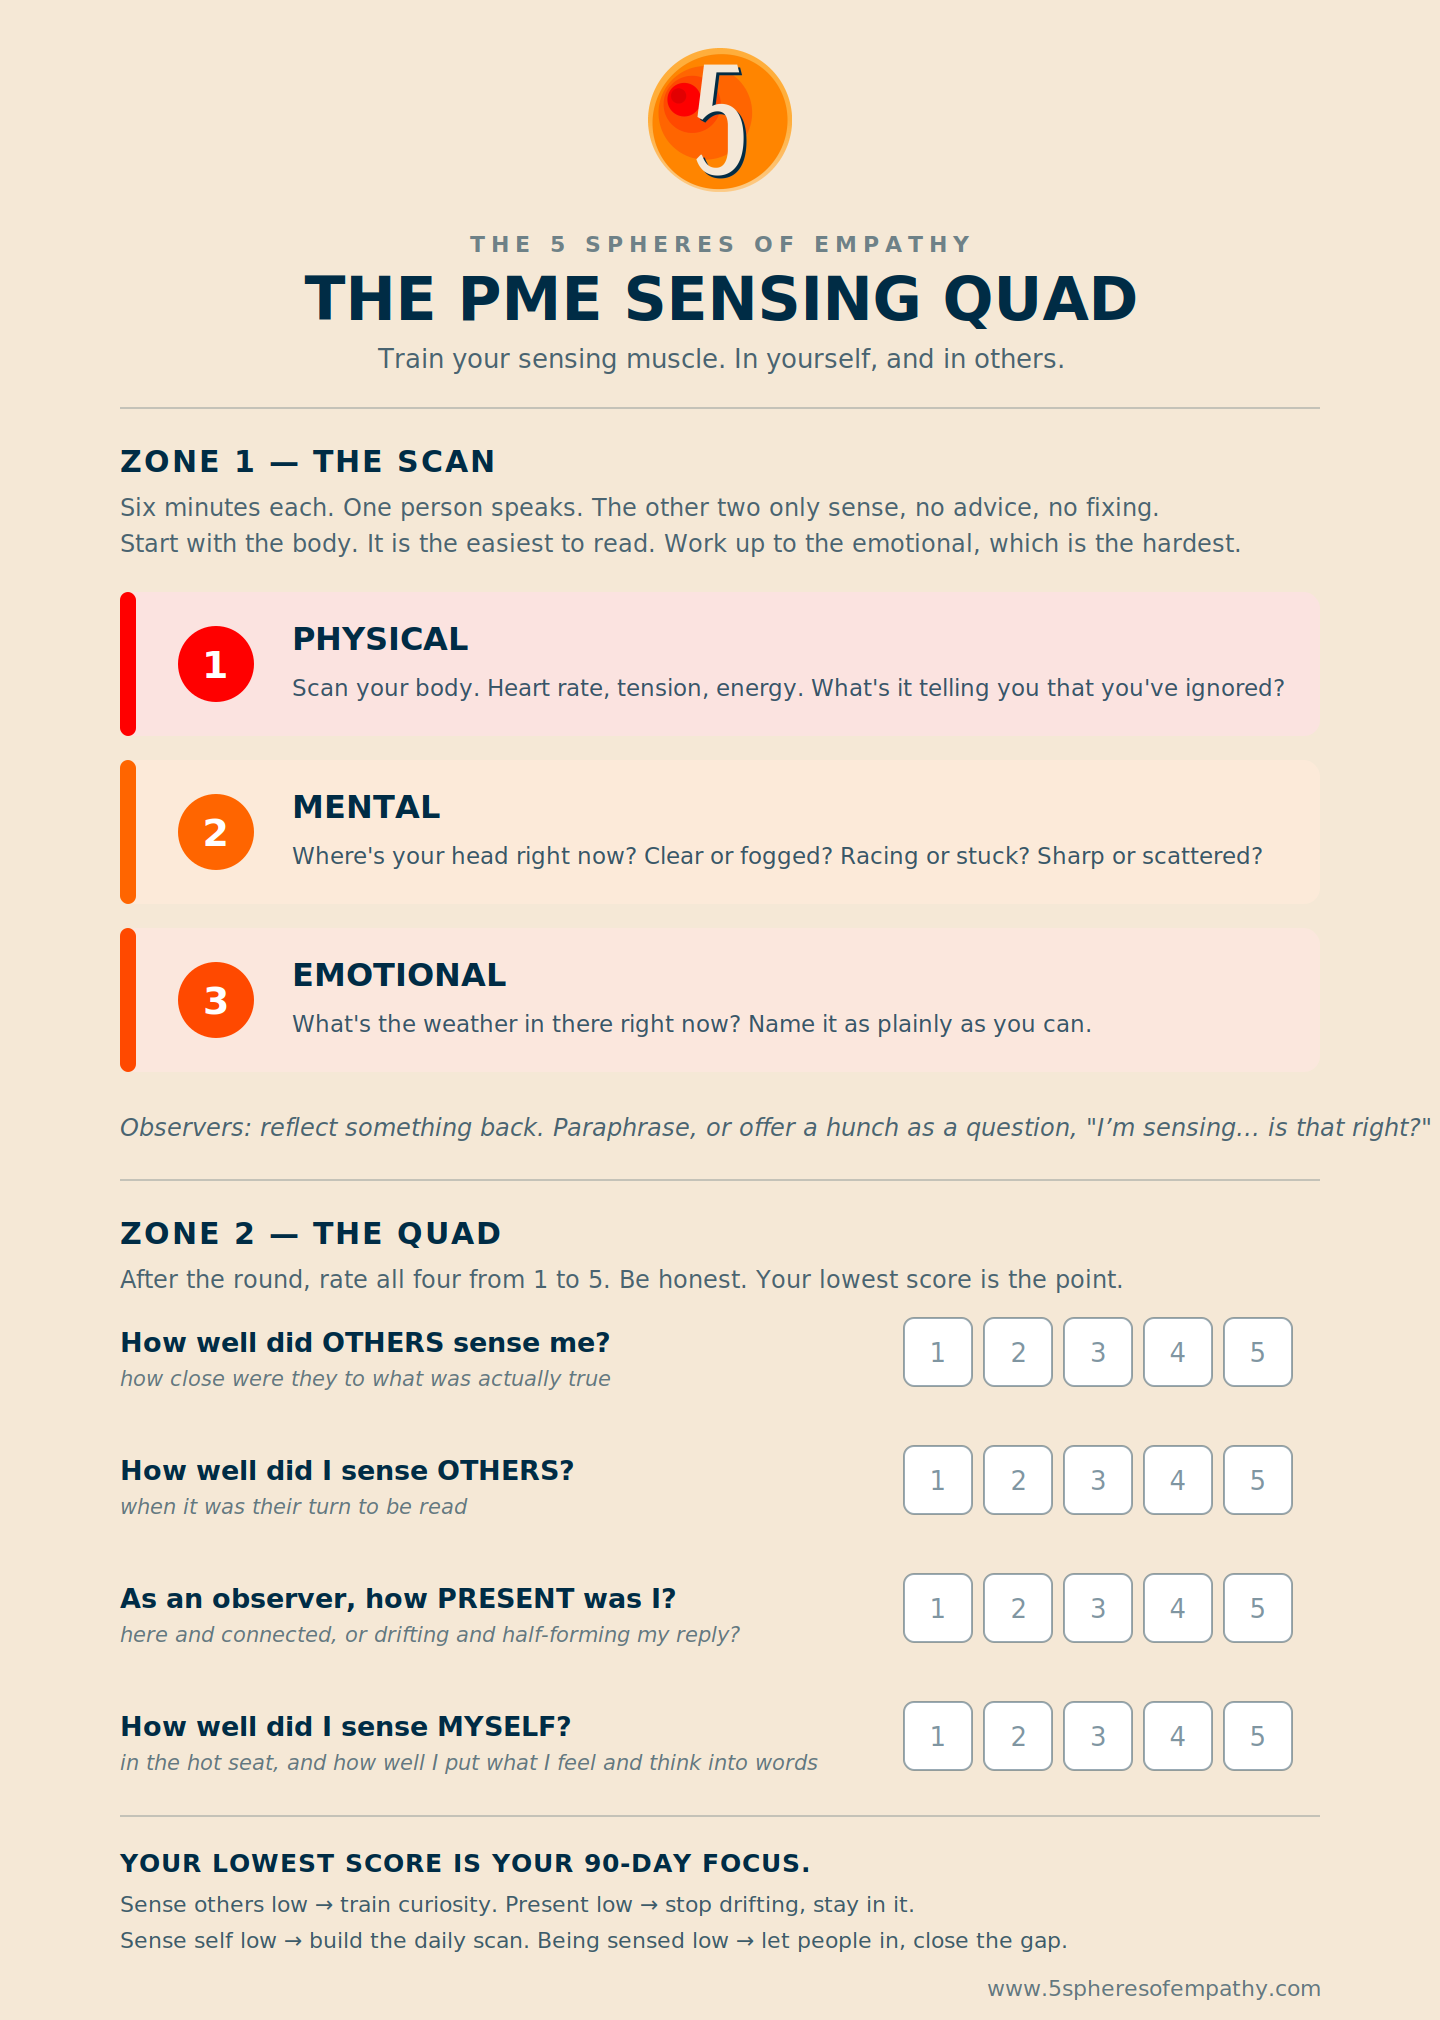
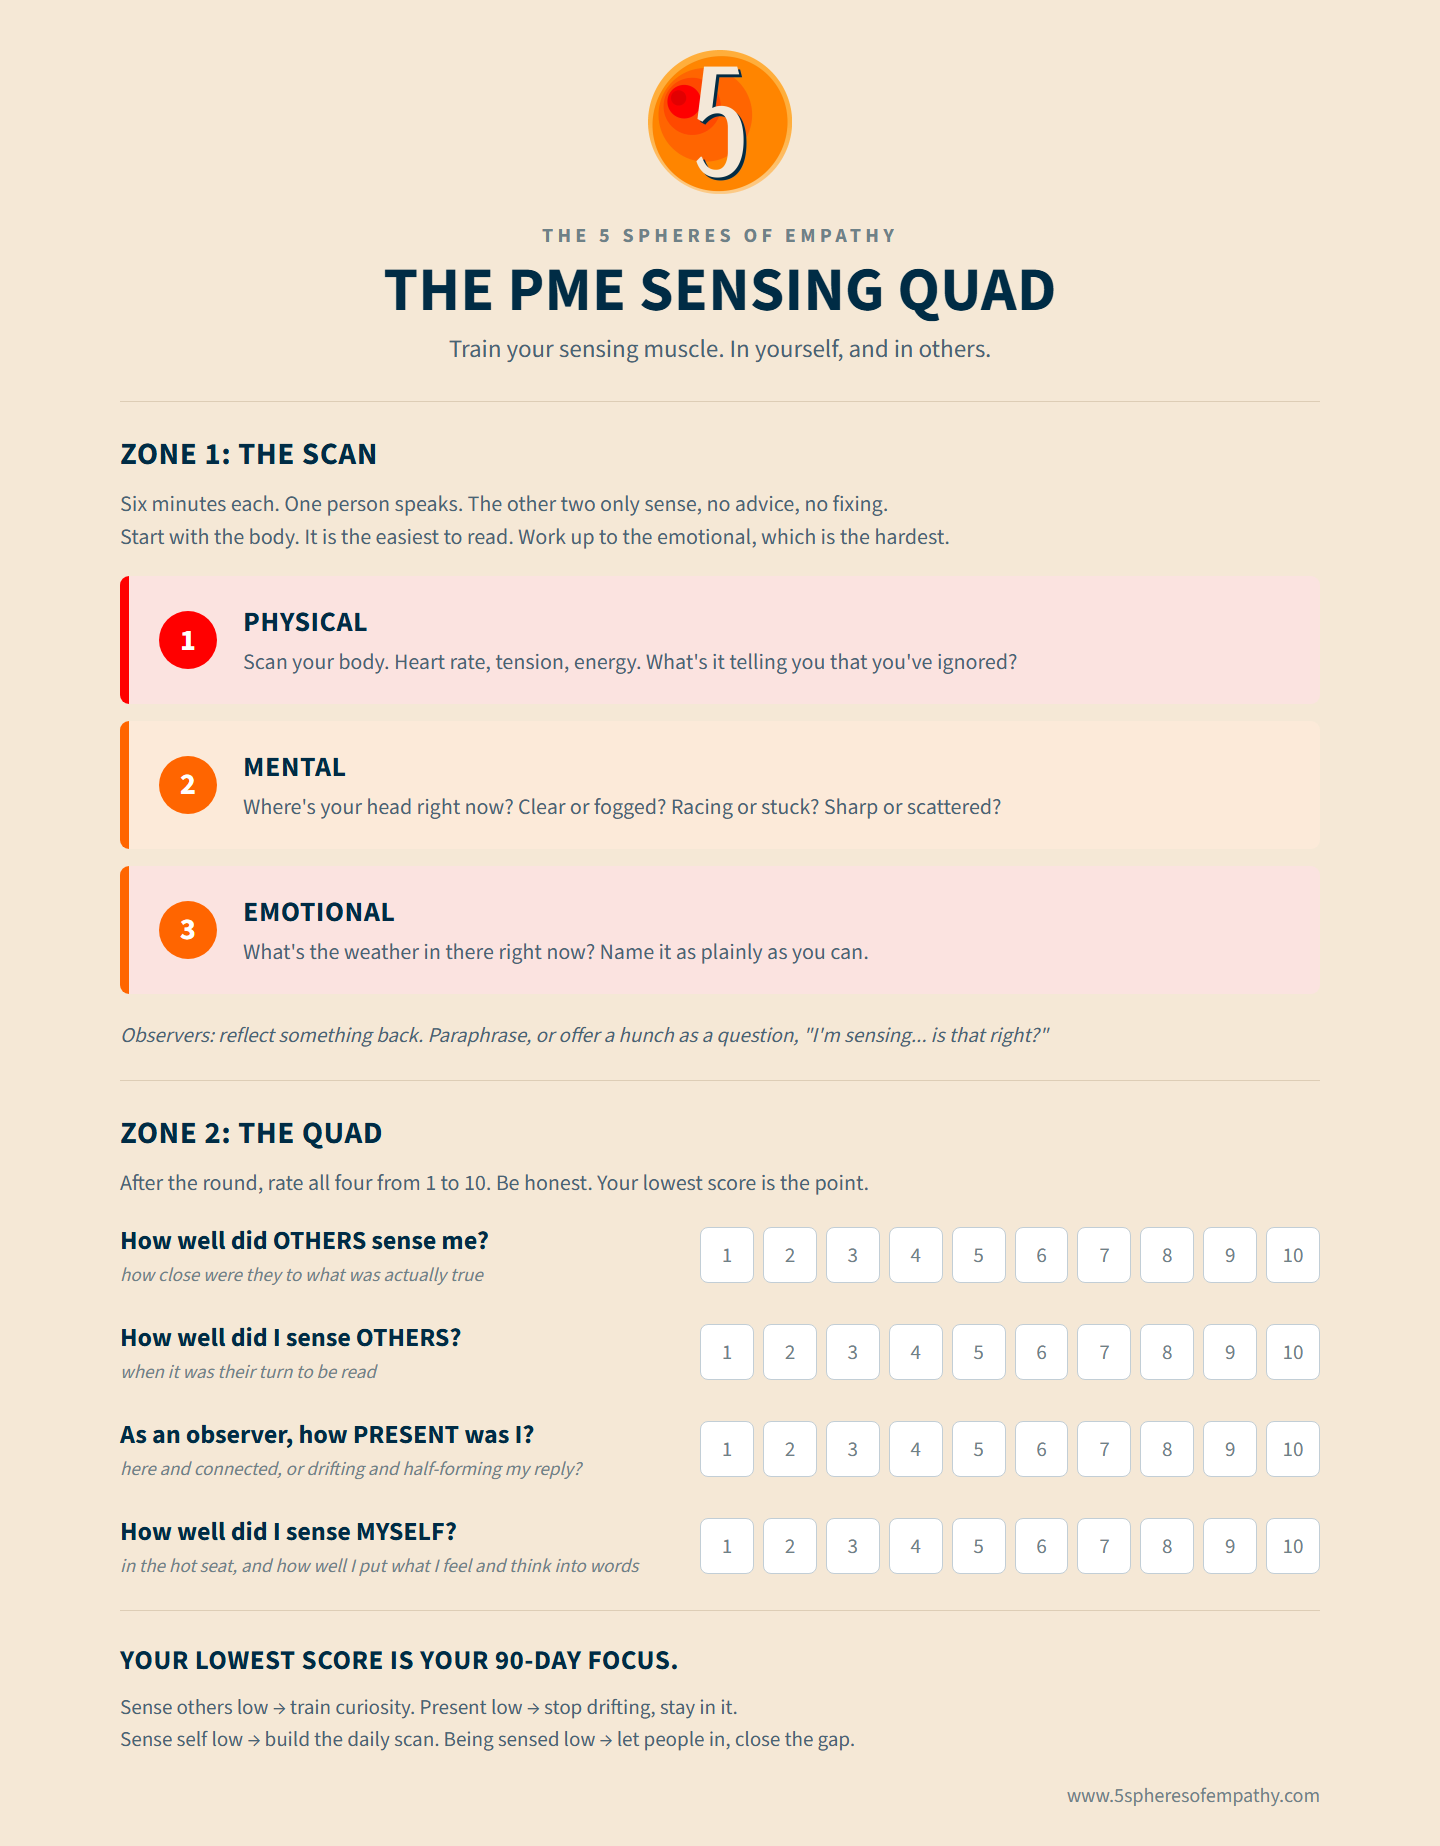
Ship the ten-point scale, with the module its six readers import
The scale change was written on 4 October and never committed, so the live
participant form still served 1 to 5 while the functions had been rewritten
against 1 to 10. `netlify/functions/_scale.mjs` was untracked and is imported
by drill-score, quad, drill-results, drill-my-sheet, quad-results and
quad-my-results, so committing the modified files without it would have shipped
six functions importing a module that does not exist.

The silent failure was the dangerous one. SCALE is [1..10], so a 1-to-5 form
posts values the server accepts without error and the record is stamped
scale: 10 with a span of 9. A participant ticking the top box the form offered
would have read 44%. ASC session one is 7 October and session two 22 October,
scored as a before and after against each other.

Staged by pathspec rather than by directory, so nothing else in the tree is
swept in. watch/, video/, skills-lock.json and the 6 October livestream cover
are deliberately left untracked, pending a separate decision.

diff --git a/quad/index.html b/quad/index.html
@@ -62,9 +62,12 @@
             font-size: 1.05rem; line-height: 1.25; margin-bottom: 3px; }
   .dim .hint { font-size: .92rem; color: #5f636f; margin-bottom: 12px; }
 
-  .scale { display: flex; gap: 8px; }
+  /* Ten across is 29px a button on a 360px phone. Two rows of five instead,
+     which also keeps the halves of the scale readable as halves. */
+  .scale { display: grid; grid-template-columns: repeat(5, 1fr); gap: 8px; }
+  @media (min-width: 560px) { .scale { grid-template-columns: repeat(10, 1fr); } }
   .scale button {
-    flex: 1; font-family: 'Fraunces', serif; font-weight: 700; font-size: 1.1rem;
+    font-family: 'Fraunces', serif; font-weight: 700; font-size: 1.1rem;
     color: var(--ink); background: var(--paper); border: 1.5px solid var(--line);
     border-radius: 12px; padding: 14px 0; cursor: pointer;
     transition: background .15s ease, border-color .15s ease, color .15s ease,
@@ -160,6 +163,7 @@
   .hp { position: absolute; left: -9999px; }
 
   @media (max-width: 560px) {
+    .scale { gap: 6px; }
     .scale button { font-size: 1rem; padding: 12px 0; }
     .quad-wrap { padding: 0 16px 60px; }
   }
@@ -489,6 +493,9 @@
   function save() { try { localStorage.setItem(KEY, JSON.stringify(state)); } catch (e) {} }
 
   var $ = function (id) { return document.getElementById(id); };
+  /* One to ten from 4 October 2026. Five points had one usable threshold,
+     its own midpoint, so a band could sit nowhere else. */
+  var SCALE_MAX = 10;
   var STAGES = ['s-start', 's-a', 's-hold', 's-again', 's-b', 's-result', 's-done'];
   function show(id) {
     STAGES.forEach(function (s) { $(s).hidden = (s !== id); });
@@ -504,8 +511,8 @@
     var scale = document.createElement('div');
     scale.className = 'scale';
     scale.setAttribute('role', 'radiogroup');
-    scale.setAttribute('aria-label', d.q + ' — 1 to 5');
-    for (var n = 1; n <= 5; n++) {
+    scale.setAttribute('aria-label', d.q + ', 1 to ' + SCALE_MAX);
+    for (var n = 1; n <= SCALE_MAX; n++) {
       (function (n) {
         var b = document.createElement('button');
         b.type = 'button';
@@ -527,8 +534,8 @@
     var ends = document.createElement('div');
     ends.className = 'scale-ends';
     ends.innerHTML = '<span></span><span></span>';
-    ends.children[0].textContent = '1 — ' + lo;
-    ends.children[1].textContent = '5 — ' + hi;
+    ends.children[0].textContent = '1 is ' + lo;
+    ends.children[1].textContent = SCALE_MAX + ' is ' + hi;
     wrap.appendChild(q); wrap.appendChild(h); wrap.appendChild(scale); wrap.appendChild(ends);
     var prev = state[round][d.key];
     if (prev) { scale.children[prev - 1].setAttribute('aria-checked', 'true'); }
@@ -932,7 +939,8 @@
     var h = '<p>You and ' + (d.n - 1) + ' other' + (d.n === 2 ? '' : 's') +
             ' filled this in.</p>';
 
-    h += '<table class="mine-table"><tr><th>Round two</th><th class="n">You</th>' +
+    var outOf = d.scale ? ', out of ' + d.scale : '';
+    h += '<table class="mine-table"><tr><th>Round two' + outOf + '</th><th class="n">You</th>' +
          '<th class="n">The room</th></tr>';
     d.dimensions.forEach(function (x) {
       h += mineRow(x.dimension, x.you.to, x.room.to);
@@ -948,7 +956,8 @@
 
     if (d.state) {
       h += '<table class="mine-table" style="margin-top:14px">' +
-           '<tr><th>How you felt</th><th class="n">Start</th><th class="n">End</th></tr>';
+           '<tr><th>How you felt' + outOf + '</th><th class="n">Start</th>' +
+           '<th class="n">End</th></tr>';
       d.state.forEach(function (x) { h += mineRow(x.layer, x.start, x.end); });
       h += '</table>';
     }

diff --git a/renders/participant/index.html b/renders/participant/index.html
@@ -56,6 +56,10 @@
   .fig{flex:1 1 92px;background:var(--paper);border:1px solid var(--line);
        border-radius:9px;padding:9px 11px}
   .fig .n{font-family:var(--serif);font-size:1.5rem;line-height:1;font-variant-numeric:tabular-nums}
+  /* The unit, carried on the number itself. A 3.4 of 5 and a 3.4 of 10 are different
+     readings and this page holds both kinds of score. */
+  .fig .n small{font-family:var(--sans,inherit);font-size:.52em;font-weight:600;
+    letter-spacing:.02em;color:var(--muted);margin-left:.28em}
   .fig .l{font-size:.69rem;letter-spacing:.07em;text-transform:uppercase;color:var(--muted);
           font-weight:700;margin-top:5px}
   .fig.hero{background:var(--warm);border-color:var(--ember)}
@@ -108,8 +112,8 @@
         <div class="top"><b>Public Speaking Drill</b><span>7 October</span></div>
         <div class="in">
           <div class="pair">
-            <div class="fig hero"><div class="n">71</div><div class="l">Appeared</div></div>
-            <div class="fig"><div class="n">44</div><div class="l">Relay</div></div>
+            <div class="fig hero"><div class="n">71<small>%</small></div><div class="l">Appeared</div></div>
+            <div class="fig"><div class="n">44<small>%</small></div><div class="l">Relay</div></div>
             <div class="fig"><div class="n">+6</div><div class="l">Gap</div></div>
           </div>
           <p>Ten people scored your ninety seconds. You put yourself at 77 before you spoke
@@ -133,7 +137,7 @@
         <div class="top"><b>The Sensing Drill</b><span>17 September</span></div>
         <div class="in">
           <div class="pair">
-            <div class="fig hero"><div class="n">3.4</div><div class="l">Round two</div></div>
+            <div class="fig hero"><div class="n">3.4<small>of 5</small></div><div class="l">Round two</div></div>
             <div class="fig"><div class="n">+0.4</div><div class="l">Change</div></div>
             <div class="fig"><div class="n">5</div><div class="l">In the room</div></div>
           </div>
@@ -152,11 +156,10 @@
       distance between your own read and the room's. It has closed each time.</p>
     <table>
       <tr><th>Date</th><th>What</th><th class="n">You said</th><th class="n">They said</th><th class="n">Apart</th></tr>
-      <tr><td>17 Sep</td><td>Sensing</td><td class="n">4.0</td><td class="n">3.4</td><td class="n down">0.6</td></tr>
-      <tr><td>7 Oct</td><td>Speaking</td><td class="n">77</td><td class="n">71</td><td class="n up">6</td></tr>
+      <tr><td>17 Sep</td><td>Sensing</td><td class="n">4.0 of 5</td><td class="n">3.4 of 5</td><td class="n down">0.6</td></tr>
+      <tr><td>7 Oct</td><td>Speaking</td><td class="n">77%</td><td class="n">71%</td><td class="n up">6</td></tr>
     </table>
-    <p class="foot" style="margin-top:12px">The two sit on different scales, so the columns
-      are not comparable to each other. Each row compares you to the room on the day.</p>
+    <p class="foot" style="margin-top:12px">The Sensing Quad is answered 1 to 5 and the speaking drill is a percentage, so the columns are not comparable to each other. Each row compares you to the room on the day.</p>
   </div>
 
   <p class="foot">Each of these is a reading from a single occasion, taken by the people

diff --git a/skilldrills/public-speaking/index.html b/skilldrills/public-speaking/index.html
@@ -36,8 +36,11 @@
   .qtext{display:block;color:var(--muted);font-size:.84rem;margin-top:1px}
   /* One label per option. A label holding several controls activates only its
      first, so a single label round the row makes a tap on "5" select 1. */
-  .scale{display:flex;gap:6px}
-  .scale label{flex:1;margin:0}
+  /* Ten in a row is under 30px a box on a phone. Two rows of five, going to
+     one row where there is width for it. */
+  .scale{display:grid;grid-template-columns:repeat(5,1fr);gap:6px}
+  @media (min-width:560px){ .scale{grid-template-columns:repeat(10,1fr)} }
+  .scale label{margin:0}
   .scale input{position:absolute;opacity:0;width:0;height:0}
   .scale label span{display:block;text-align:center;border:1px solid var(--line);border-radius:6px;
        padding:12px 0;font-size:.95rem;cursor:pointer;background:var(--paper);user-select:none}
@@ -296,6 +299,12 @@
   var polling = null;
 
   /* ---------------------------------------------------------- building ---- */
+  /* One to ten from 4 October 2026, matching the Quad. A participant who meets
+     two scales inside one programme is worse off than either scale. */
+  var SCALE_MAX = 10;
+  var SCALE = [];
+  for (var _i = 1; _i <= SCALE_MAX; _i++) { SCALE.push(_i); }
+
   function esc(s) {
     return String(s === null || s === undefined ? '' : s)
       .replace(/&/g, '&amp;').replace(/</g, '&lt;').replace(/>/g, '&gt;');
@@ -306,9 +315,9 @@
       '<legend><span class="qname">' + esc(row[1]) + '</span>' +
       '<span class="qtext">' + esc(row[2]) + '</span></legend>' +
       '<span class="scale">' +
-      [1, 2, 3, 4, 5].map(function (i) {
+      SCALE.map(function (i) {
         return '<label><input type="radio" name="' + name + '" value="' + i +
-               '" aria-label="' + esc(row[1]) + ', ' + i + ' of 5">' +
+               '" aria-label="' + esc(row[1]) + ', ' + i + ' of ' + SCALE_MAX + '">' +
                '<span>' + i + '</span></label>';
       }).join('') +
       '</span></fieldset>';

diff --git a/skilldrills/public-speaking/results/index.html b/skilldrills/public-speaking/results/index.html
@@ -179,7 +179,11 @@
       .sort(function (a, b) { return g.five[a] - g.five[b]; });
     if (ranked.length) {
       var low = ranked[0]; var high = ranked[ranked.length - 1];
-      var t = 'Strongest across the room was ' + high + ' at ' + g.five[high] + ' out of 5. Weakest was ' + low + ' at ' + g.five[low] + '.';
+      /* The scale comes from the data. A page that names it from a constant
+         keeps saying five long after the forms stopped asking for one. */
+      var outOf = g.scale ? ' out of ' + g.scale : '';
+      var t = 'Strongest across the room was ' + high + ' at ' + g.five[high] +
+              outOf + '. Weakest was ' + low + ' at ' + g.five[low] + '.';
       var firsts = FIVE.filter(function (k) { return g.changeFirst[k] > 0; })
         .sort(function (a, b) { return g.changeFirst[b] - g.changeFirst[a]; });
       if (firsts.length) {
@@ -292,7 +296,8 @@
         '</td><td class="n">' + n(p.five[k].self) + '</td><td class="n">' +
         n(p.five[k].room) + '</td></tr>';
     }).join('');
-    h += sec('The five',
+    var sc = p.scale ? ' out of ' + p.scale : '';
+    h += sec('The five' + sc,
       '<table class="five"><tr><th>&nbsp;</th><th class="n">You</th><th class="n">Room</th></tr>' +
       rows + '</table>');
 

diff --git a/skilldrills/public-speaking/room/index.html b/skilldrills/public-speaking/room/index.html
@@ -134,7 +134,10 @@
     var ranked = FIVE.filter(function (k) { return g.five[k] !== null; })
       .sort(function (a, b) { return g.five[a] - g.five[b]; });
     if (ranked.length) {
-      h += '<div class="sec"><h2>The five</h2><div class="five">' +
+      /* Named from the data, so the screen cannot keep saying five after the
+         forms stopped asking for one. */
+      h += '<div class="sec"><h2>The five' + (g.scale ? ', out of ' + g.scale : '') +
+        '</h2><div class="five">' +
         FIVE.map(function (k) {
           return '<div class="f' + (k === ranked[0] ? ' low' : '') + '"><div class="v">' +
             n(g.five[k]) + '</div><div class="k">' + k + '</div></div>';

diff --git a/resources/pme-sensing-quad/index.html b/resources/pme-sensing-quad/index.html
@@ -106,7 +106,7 @@ ml('account', '2409610');
 
     <h2>Zone 2: The Quad</h2>
     <div class="article-body">
-      <p>After the round, both people rate all four dimensions from 1 to 5. Be honest. Your lowest score is the point.</p>
+      <p>After the round, both people rate all four dimensions from 1 to 10. Be honest. Your lowest score is the point.</p>
     </div>
 
     <div class="quad-item">

diff --git a/renders/facilitator/index.html b/renders/facilitator/index.html
@@ -157,7 +157,7 @@
     <div class="nums">
       <div><b>5</b><span>in</span></div>
       <div><b>5</b><span>done</span></div>
-      <div><b>3.4</b><span>round two</span></div>
+      <div><b>3.4</b><span>round two, of 5</span></div>
     </div>
     <span class="tag rel">sent out</span>
   </div>
